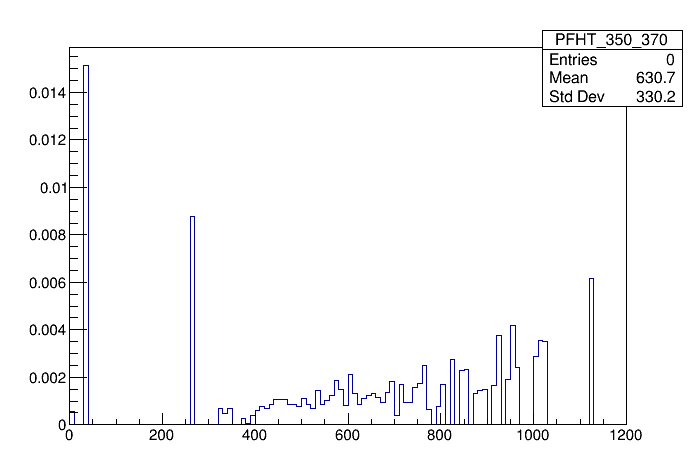
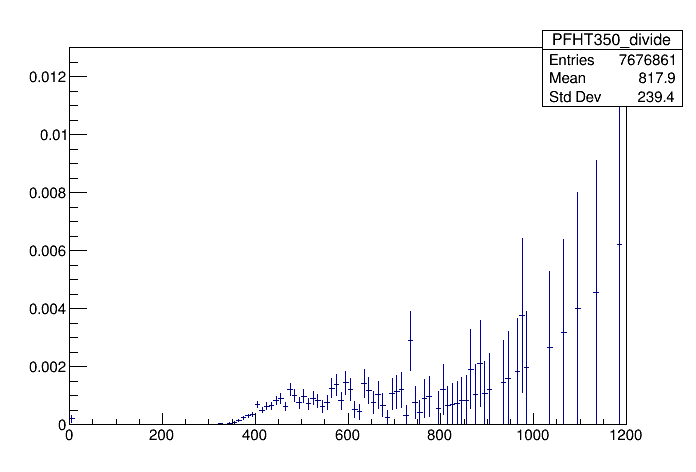
update the def. of trigger cut ratio

diff --git a/QCD_data_driven/root_output/draw_trigEff.C b/QCD_data_driven/root_output/draw_trigEff.C
@@ -2,7 +2,7 @@
 	this code is build for letting trigger efficiency -> 100%
 	we use off-line HT, trigger paths in tree
 */	
-bool isTest = false;
+bool isTest = true;
 
 using namespace std;
 void draw_trigEff(string inputname){
@@ -26,11 +26,13 @@ void draw_trigEff(string inputname){
 		HighEdge[paths[i]] = tmph->GetBinLowEdge(nmaxBin+1);
 	}
 	
-	TH1F* hpass1[10];
-	TH1F* hpass12[10];
+	TH1F* hpass1;
+	hpass1 = new TH1F(prefixterm+"_180","",120,0,1200);
+	TH1F* hpass2[10];
+	TH1F* hpass21[10];
 	for (int i=0; i<10;i++){
-		hpass1[i] = new TH1F(prefixterm+"_"+paths[i],"",120,0,1200);
-		hpass12[i] = new TH1F(prefixterm+"_"+paths[i]+"_"+paths[i+1],"",120,0,1200);
+		hpass2[i] = new TH1F(prefixterm+"_180_"+paths[i+1],"",120,0,1200);
+		hpass21[i] = (TH1F*) hpass2[i]->Clone(prefixterm+paths[i+1]+"_divide");
 	}
 	int total_entry = myRead.GetEntries(true);
 	int jEntry = 0;
@@ -48,21 +50,21 @@ void draw_trigEff(string inputname){
 			if (prescales[it] < LowEdge[passTrigs[it]] || prescales[it] > HighEdge[passTrigs[it]] ) continue;
 			selectedList.push_back(passTrigs[it]);
 		}
-		for(int i=0;i<10;i++){
-			auto ifound = find(selectedList.begin(),selectedList.end(),paths[i]);
-			if (ifound != selectedList.end() ) {
-				hpass1[i]->Fill(*HT_);
+		auto ifound = find(selectedList.begin(),selectedList.end(),180);
+		if (ifound != selectedList.end() ) {
+			hpass1->Fill(*HT_);
+			for(int i=0;i<10;i++){
 				ifound = find(selectedList.begin(),selectedList.end(), paths[i+1]);
-				if (ifound != selectedList.end() ) hpass12[i]->Fill(*HT_);
+				if (ifound != selectedList.end() ) hpass2[i]->Fill(*HT_);
 			}
 		}
 	} // end of all entries
 	// output plots
 	TCanvas* c = new TCanvas("c","c");
 	for (int i=0;i<10;i++){
-		hpass12[i]->Divide(hpass1[i]);
-		hpass12[i]->Draw();
-		c->SaveAs(prefixterm+paths[i]+"_noMET.png");
+		hpass21[i]->Divide(hpass2[i],hpass1,1,1,"B");
+		hpass21[i]->Draw();
+		c->SaveAs(prefixterm+paths[i+1]+"_noMET.png");
 	}
 }
 	
